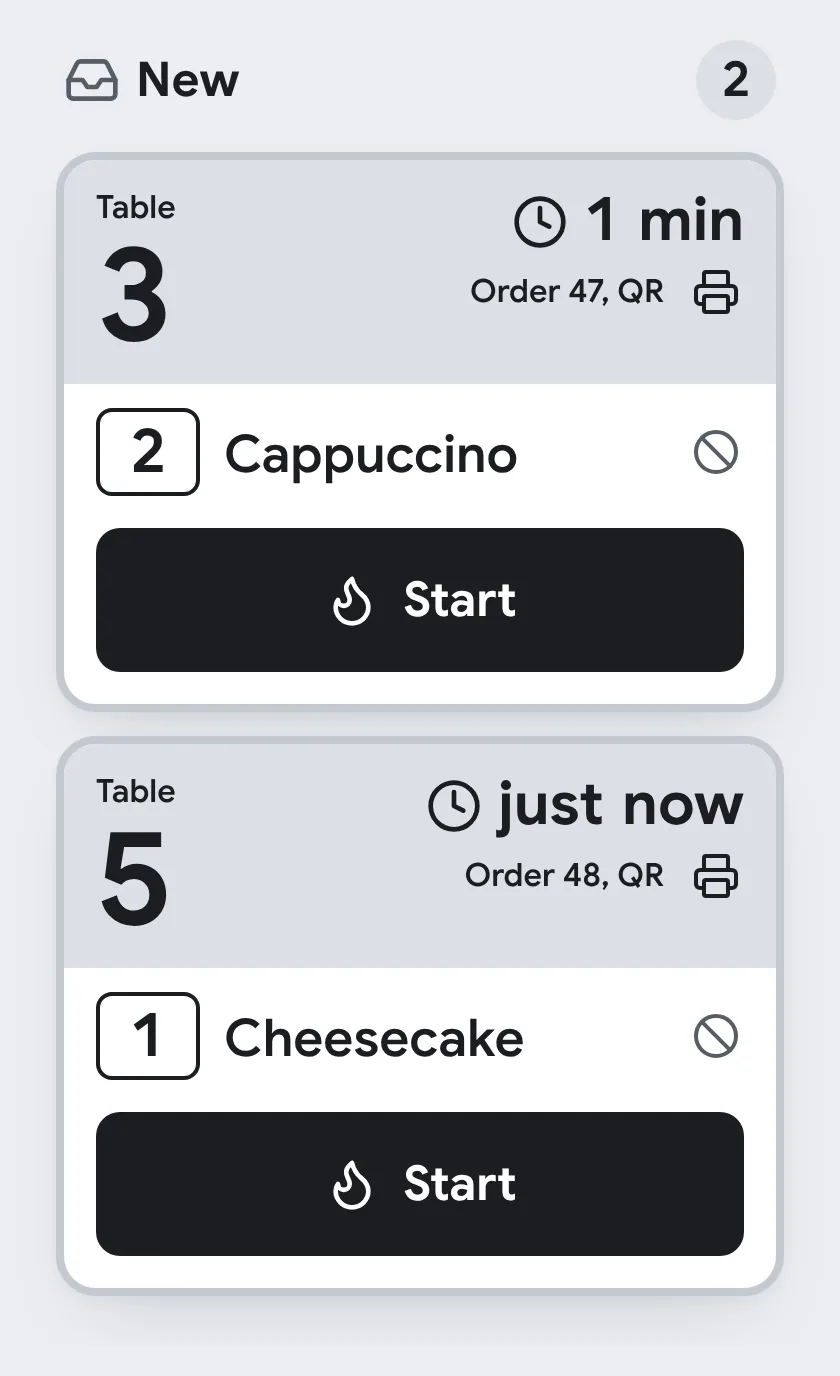
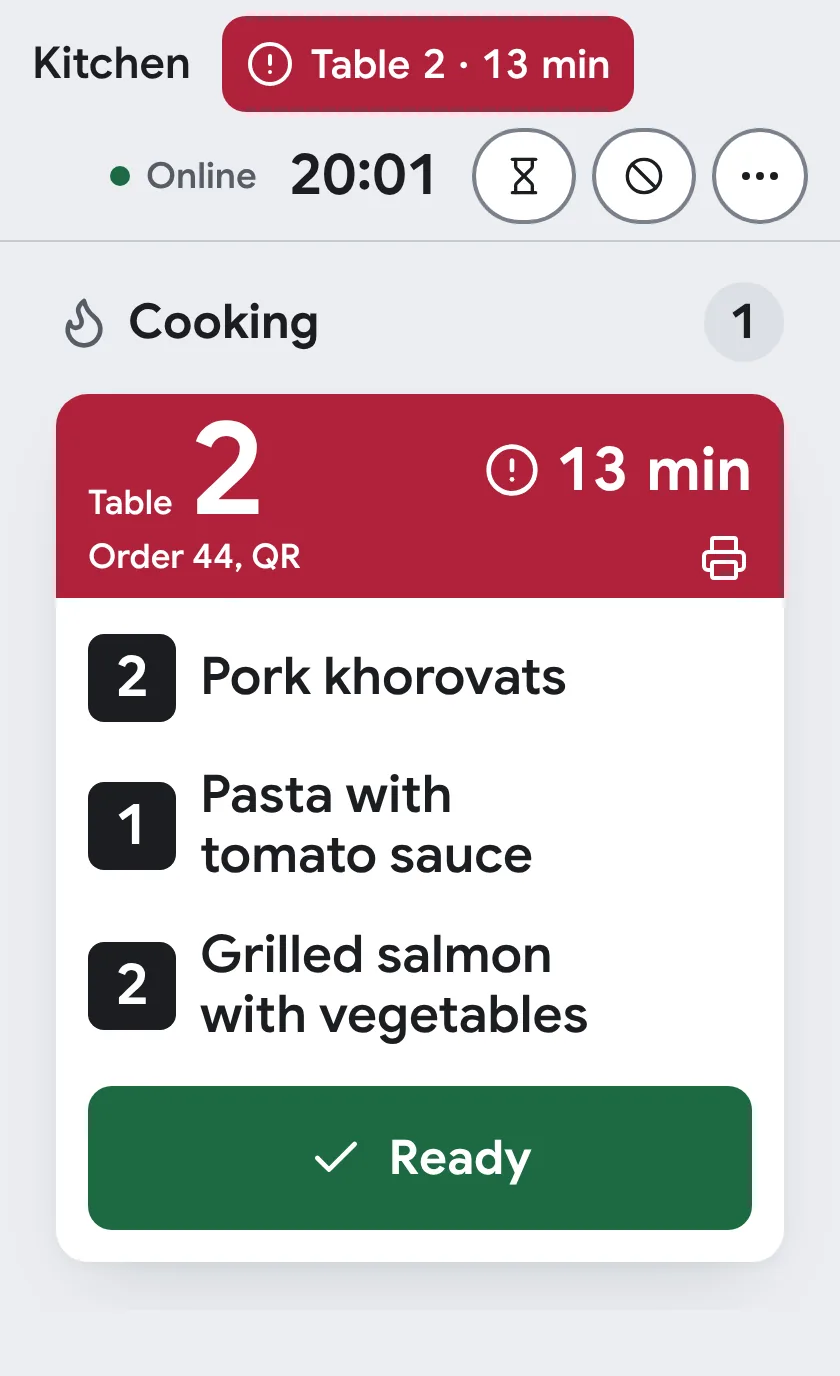
Front door round 7: current kitchen phone picture, tappable dish sheet, a heading for the extras
- Kitchen tab on phones: re-shot read-only from the current board at 420 px
  (header with the late-table alert over the red Cooking ticket and its
  green Ready button), so it matches the wide crop; new alt text in hy/ru/en.
- Menu tab: the dish-sheet picture links to the demo menu, as the hero does.
- How to start: the three extra facts get their own heading ("Also built in").
- Copy: Armenian export and offline lines reworded; a no-break space in every
  Armenian "el. post"; typographic apostrophes in the English front-door copy.
- ADR-100 gains a seventh-round revision.

Claude-Session: https://claude.ai/code/session_018pVGXrwdjQZGhMB6CDQasQ

diff --git a/src/features/landing/showcase.tsx b/src/features/landing/showcase.tsx
@@ -19,6 +19,9 @@ export type ShowcasePanel = {
   // surfaces stay one phone screen at every width.
   phone: { src: string; width: number; height: number };
   wide?: { src: string; width: number; height: number };
+  // When the picture shows something a visitor can try (the guest menu), it
+  // is a link there, so tapping its buttons is never a dead end.
+  link?: { href: string; label: string };
 };
 
 // The landing page's product showcase (benchmark 2.1): one row of tabs and one
@@ -135,26 +138,28 @@ export function Showcase({
                 p.wide && "md:aspect-[720/688]",
               )}
             >
-              <picture className="contents">
-                {p.wide && (
-                  <source
-                    media="(min-width: 48rem)"
-                    srcSet={p.wide.src}
-                    width={p.wide.width}
-                    height={p.wide.height}
+              <PictureLink link={p.link}>
+                <picture className="contents">
+                  {p.wide && (
+                    <source
+                      media="(min-width: 48rem)"
+                      srcSet={p.wide.src}
+                      width={p.wide.width}
+                      height={p.wide.height}
+                    />
+                  )}
+                  {/* A static webp at 2x; no image runtime on the landing. */}
+                  <img
+                    src={p.phone.src}
+                    width={p.phone.width}
+                    height={p.phone.height}
+                    alt={p.alt}
+                    loading={i === 0 ? "eager" : "lazy"}
+                    decoding="async"
+                    className="shadow-soft-float block h-auto w-full rounded-[20px]"
                   />
-                )}
-                {/* A static webp at 2x; no image runtime on the landing. */}
-                <img
-                  src={p.phone.src}
-                  width={p.phone.width}
-                  height={p.phone.height}
-                  alt={p.alt}
-                  loading={i === 0 ? "eager" : "lazy"}
-                  decoding="async"
-                  className="shadow-soft-float block h-auto w-full rounded-[20px]"
-                />
-              </picture>
+                </picture>
+              </PictureLink>
             </div>
           </div>
           <div className="flex flex-col items-start gap-3 lg:order-1">
@@ -175,5 +180,20 @@ export function Showcase({
         </div>
       ))}
     </div>
+  );
+}
+
+// The picture as a plain link (same frame, a focus ring on its rounded edge),
+// or as it is when the panel has none.
+function PictureLink({ link, children }: { link?: { href: string; label: string }; children: ReactNode }) {
+  if (!link) return children;
+  return (
+    <a
+      href={link.href}
+      aria-label={link.label}
+      className="focus-visible:outline-ink block rounded-[20px] focus-visible:outline-2 focus-visible:outline-offset-4"
+    >
+      {children}
+    </a>
   );
 }

diff --git a/src/app/[locale]/page.tsx b/src/app/[locale]/page.tsx
@@ -106,6 +106,8 @@ export default async function LocaleHome({ params }: { params: Promise<{ locale:
       height: PHONE_HEIGHT[s]?.[locale] ?? PHONE.height,
     },
     wide: WIDE_SURFACES.includes(s) ? { src: `/landing/show-${s}-${locale}.webp`, ...WIDE } : undefined,
+    // The dish sheet looks like live UI, so (as the hero) it opens the demo menu.
+    link: s === "menu" ? { href: demoHref, label: t("ctaDemo") } : undefined,
   }));
 
   // The language links: a nav in the header, a plain group again in the footer.
@@ -278,17 +280,27 @@ export default async function LocaleHome({ params }: { params: Promise<{ locale:
                 </li>
               ))}
             </ol>
-            {/* Why Pativ: three facts under one hairline, a 22 px lead and a 17 px line each. */}
-            <ul className="border-hairline m-0 mt-12 grid list-none gap-6 border-t p-0 pt-8 md:mt-16 md:grid-cols-3 md:gap-12 md:pt-10">
-              {WHY.map((w) => (
-                <li key={w} className="flex flex-col gap-1">
-                  <span className="text-subtitle font-semibold">{t(`start.why.${w}.lead`)}</span>
-                  <span className="text-slate text-name max-w-[34ch] leading-normal text-pretty">
-                    {t(`start.why.${w}.text`)}
-                  </span>
-                </li>
-              ))}
-            </ul>
+            {/* Why Pativ: three facts under one hairline and their own short
+                heading, so on a phone they read as features, not as a fourth
+                step; a 17 px lead and line each, under the 22 px heading. */}
+            <div className="border-hairline mt-12 border-t pt-8 md:mt-16 md:pt-10">
+              <h3 id="landing-why" className="text-subtitle m-0 font-semibold">
+                {t("start.why.title")}
+              </h3>
+              <ul
+                aria-labelledby="landing-why"
+                className="m-0 mt-5 grid list-none gap-6 p-0 md:mt-6 md:grid-cols-3 md:gap-12"
+              >
+                {WHY.map((w) => (
+                  <li key={w} className="flex flex-col gap-1">
+                    <span className="text-name font-semibold">{t(`start.why.${w}.lead`)}</span>
+                    <span className="text-slate text-name max-w-[34ch] leading-normal text-pretty">
+                      {t(`start.why.${w}.text`)}
+                    </span>
+                  </li>
+                ))}
+              </ul>
+            </div>
           </div>
         </section>
 

diff --git a/docs/01-architecture/decisions.md b/docs/01-architecture/decisions.md
@@ -1201,6 +1201,11 @@ ADR-style records, short on purpose. All are Proposed until Gate 1. Each one nam
   - Every showcase picture now sits in a fixed slot (420:688, or 720:688 for the kitchen crop from md), so a picture that ends sooner sits at the slot's top and switching tabs never changes the panel's height.
   - Pictures re-shot read-only (every write from the screenshot browser answered locally, sample data only in its reads): the waiter's Hall has nine tables in three full rows (seated, ready, new, bill, a second seated table and four free ones; the Terrace's tables are numbered on from 10 in that browser), so the floor no longer looks empty; alt texts say nine tables. The dish sheet is scrolled to its end, so the note field sits whole above the 56 px add bar (the × stays 12 px under the top, as on a taller phone). The kitchen crop is the current board's Cooking and Ready lanes with the header's right part, cut to end 24 px under the tallest ticket with equal side margins (the sample cooking ticket has four lines). The admin list starts 32 px above "Sections" and ends 24 px under its last whole row (a little shorter than the screen in each language; its height is in `PHONE_HEIGHT`). The kitchen phone picture is unchanged.
   - Footer below sm: the five links are a 2-column grid of left-aligned 44 px rows; the fifth ("Connect a device") spans both columns so it never wraps. From sm one inline row as before.
+- Revision (26 Nov, seventh round, judge's open items):
+  - The kitchen phone picture is re-shot read-only from the current board at 420 px (sample tickets only in the screenshot browser's reads, every write answered locally, the board in each page's language through the same uncommitted local override): the board's header with its late-table alert over the Cooking lane, whose red ticket and green "Ready" button now match the wide crop. The "New" lane is left out, as in the wide crop, and the ticket keeps three of the wide crop's four lines so the header, the lane and the whole ticket fit one 688 px screen (840x1376). The kitchen alt text says what both pictures show: an order waiting 13 minutes has turned red.
+  - The Menu panel's dish-sheet picture is a link to the demo menu (named "Open the demo menu"), as the hero picture is, so its ×, stepper and "Add" button are never a dead end. `ShowcasePanel.link` is optional; the other three pictures are not links.
+  - "How to start": the three facts under the hairline get their own h3, «Նաև ներառված է» / «Также внутри» / "Also built in" (22 px), so on a phone they no longer read as a fourth step; each fact's lead is 17 px semibold under it.
+  - Copy: the Armenian export and offline lines read as statements («…կարող եք ներբեռնել…», «…ինքնաբերաբար կուղարկվի…»); every Armenian «էլ․ փոստ» has a no-break space, so the abbreviation never ends a line; English strings on the landing, auth, pairing and 404 pages use the typographic apostrophe (’).
 
 ## ADR-101: Waiter app and kitchen display area pass: one bar, fills for state, rows for content
 
